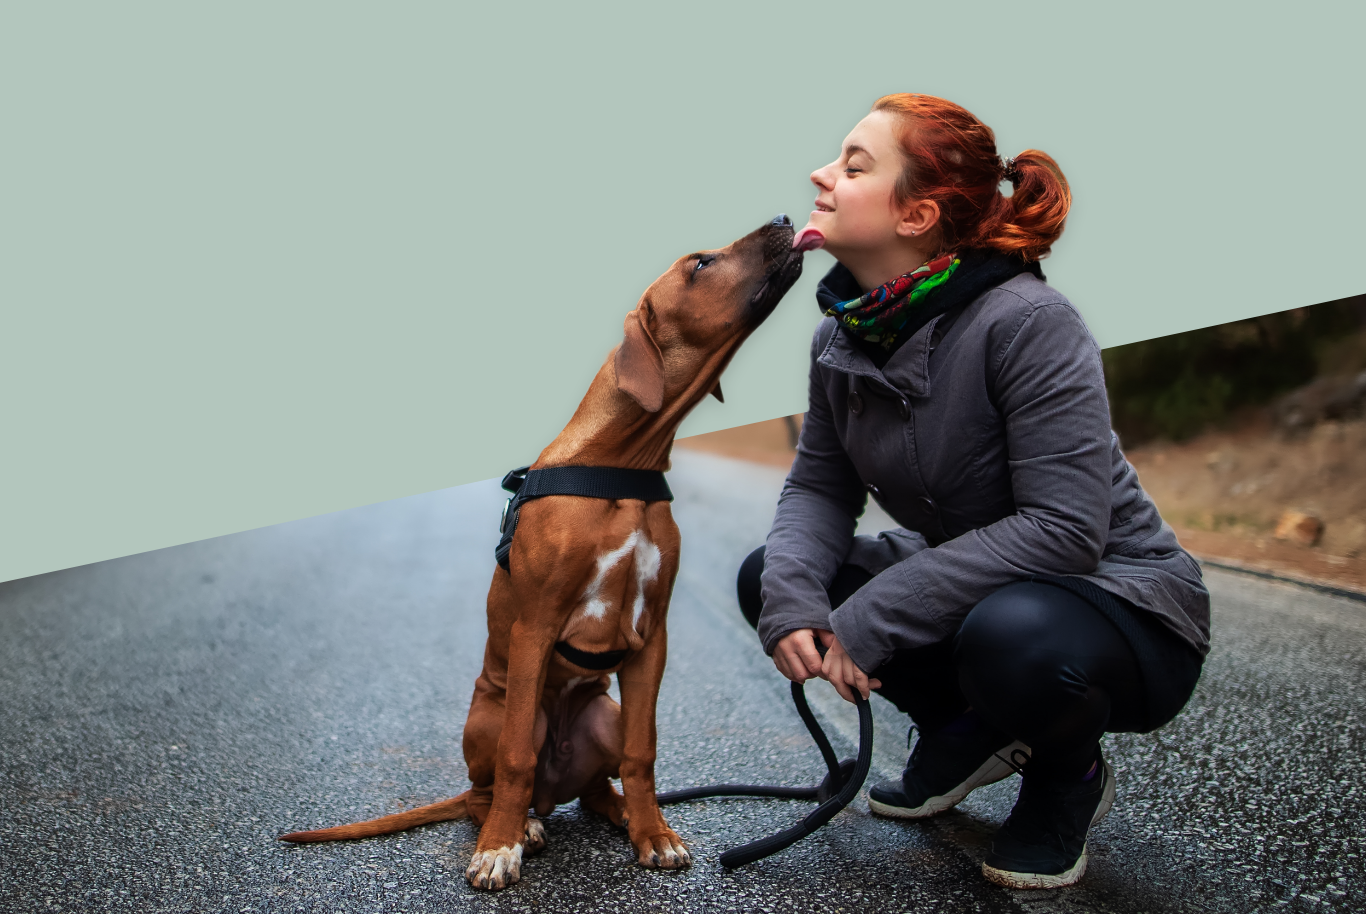
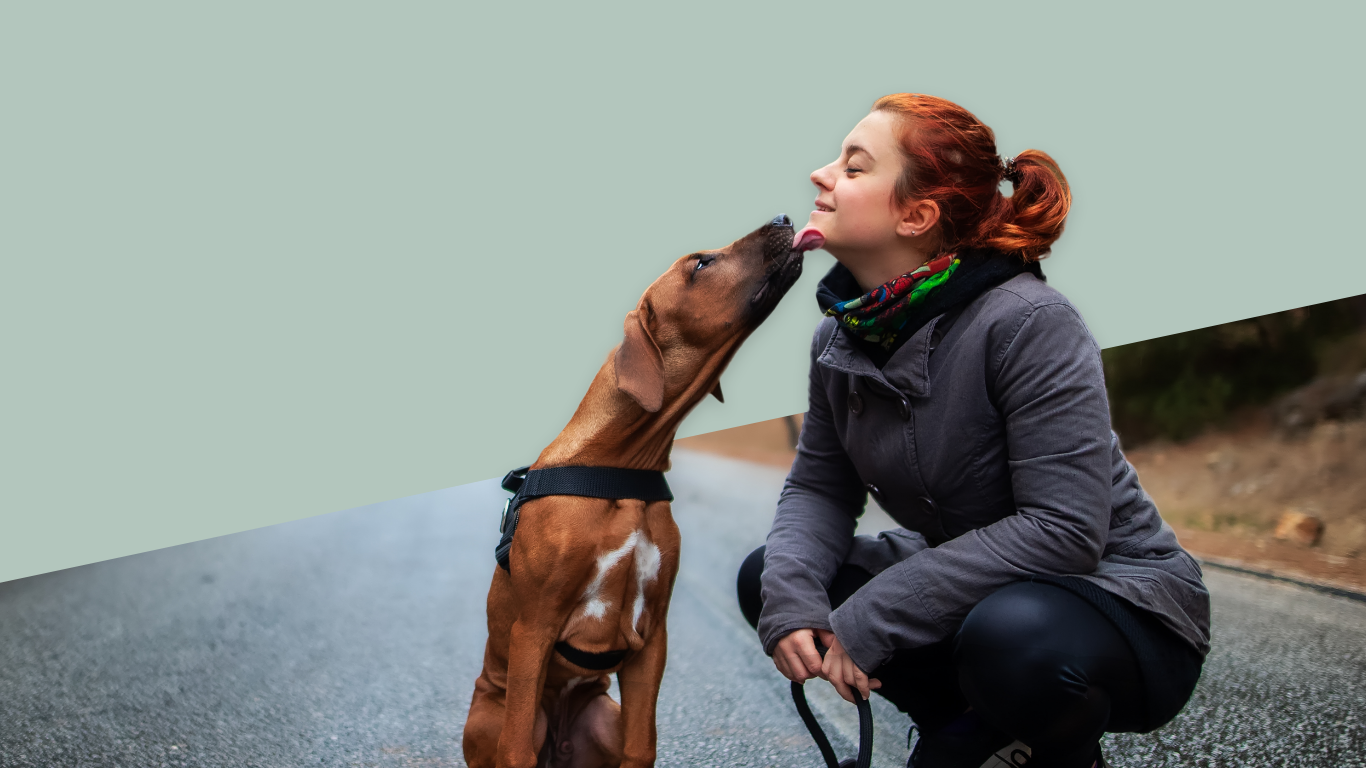
Add content to header and main body

diff --git a/css/styles.css b/css/styles.css
@@ -1,63 +1,170 @@
-html,
-body {
-margin: 0;
-padding: 0;
-font-family: Arial, Helvetica, sans-serif;
-}
+html, body {
+  margin: 0;
+  padding: 0;
+  font-family: Arial, Helvetica, sans-serif;
+  }
+
+/* -----------NAVIGATION AND HEADER----------- */
+
 header {
-width: 100%;
-height: 70px;
-display: flex;
-align-items: center;
-justify-content: space-around;
-background: #EFEFEF;
-color: #505050;
-}
-.logo {
-letter-spacing: 2px;
-}
-.nav {
-display: flex;
-justify-content: space-around;
-width: 30%;
-}
-.navlink {
-list-style: none;
-margin: 0;
-}
-.navlink a {
-color: #909592;
-text-decoration: none;
-font-size: 1.2em;
-}
-.burger {
-font-size: 1.2em;
-display: none;
+  width: 100%;
+  height: 70px;
+  display: flex;
+  align-items: center;
+  justify-content: space-around;
+  background: #EFEFEF;
+  color: #505050;
 }
 
+.logo {
+  letter-spacing: 2px;
+  font-size: 20px;
+}
+
+.nav {
+  display: flex;
+  justify-content: space-around;
+  width: 30%;
+}
+
+.navlink {
+  list-style: none;
+  margin: 0;
+}
+
+.navlink a {
+  color: #909592;
+  text-decoration: none;
+  font-size: 1.2em;
+}
+.burger {
+  font-size: 1.2em;
+  display: none;
+}
+
+
+/* ----------- MAIN----------- */
+.main-container img {
+  width: 100%;
+  height: auto;
+}
+
+.adopt-container {
+  position: absolute;
+  top: 120px;
+  left: 100px;
+  max-width: 600px;
+  padding-right: 20px;
+  margin-bottom: 0px;
+}
+
+.adopt-container h2 {
+  color: #fff;
+  font-weight: lighter;
+  letter-spacing: 2px;
+}
+
+.adopt-container h3 {
+  color: #fff;
+  font-weight: bold;
+  font-size: 55px;
+  text-shadow: 2px 4px 3px rgba(0,0,0,0.3);
+  margin: 0px 0px 20px 0px;
+}
+
+.adopt-container hr {
+  border-top: 1px solid #fff;
+}
+
+button {
+  background-color: #fff;
+  color: #909592;
+  padding: 10px 20px 10px 20px;
+  border: none;
+  border-radius: 30px;
+  width: 250px;
+  font-size: 20px;
+}
+
+/* ----------- WHAT WE DO----------- */
+.body-container {
+  margin-top: -10px;
+  text-align: center;
+  background-color: #efefef;
+  padding: 20px;
+}
+.body-container h2 {
+  color: #505050;
+  font-size: 40px;
+}
+
+/* -----------MEDIA QUERIES----------- */
 @media screen and (max-width: 678px) {
   .burger {
-  display: block;
+    display: block;
   }
   .nav {
-  margin: 0;
-  background: #343434;
-  position: absolute;
-  right: -100%;
-  top: 70px;
-  width: 50%;
-  height: 50%;
-  min-height: 200px;
-  flex-direction: column;
-  justify-content: space-around;
-  padding: 0;
-  transition: all 400ms;
+    margin: 0;
+    background: #343434;
+    position: absolute;
+    right: -100%;
+    top: 70px;
+    width: 50%;
+    height: 50%;
+    min-height: 200px;
+    flex-direction: column;
+    justify-content: space-around;
+    padding: 0;
+    transition: all 400ms;
   }
   .navlink {
-  text-align: center;
+    text-align: center;
   }
 
   .nav-active {
     right: 0;
   }
+
+
+  .adopt-container {
+    position: relative;
+    top: 0px;
+    left: 0px;
+    max-width: 100%;
+    padding: 20px;
+  }
+
+  .adopt-container h2 {
+    color: #B3C6BD;
+    font-weight: lighter;
+    letter-spacing: 2px;
+    padding-top: 0px;
+    margin-top: 0px;
+  }
+
+  .adopt-container h3 {
+    color: #505050;
+    font-weight: bold;
+    font-size: 35px;
+    text-shadow: none;
+    margin: 0px 0px 20px 0px;
+  }
+
+  .adopt-container hr {
+    margin-top: 0px;
+    border-top: 1px solid #fff;
+  }
+
+  button {
+    background-color: #909592;
+    color: #fff;
+    padding: 10px 20px 10px 20px;
+    border: none;
+    border-radius: 30px;
+    width: 250px;
+    font-size: 20px;
+    margin-bottom: 20px;
+  }
+
+
 }

diff --git a/index.html b/index.html
@@ -15,7 +15,7 @@
 <body>
 
   <header>
-    <h1 class="logo">Jackson Animal Shelter</h1>
+    <h1 class="logo">JACKSON ANIMAL SHELTER</h1>
       <ul class="nav">
         <li class="navlink"><a href="index.html">HOME</a></li>
         <li class="navlink"><a href="adopt.html">ADOPT</a></li>
@@ -25,6 +25,20 @@
         <i class="fas fa-bars"></i>
       </div>
     </header>
+
+    <div class="main-container">
+      <img src="./images/header-img.png">
+      <div class="adopt-container">
+        <h2>JACKSON ANIMAL SHELTER</h2>
+        <hr>
+        <h3>Finding your next best friend starts here.</h3>
+        <button type="button" name="button">ADOPT A PET</button>
+      </div>
+    </div>
+
+    <div class="body-container">
+      <h2>What We Do</h2>
+    </div>
 
   <script src="js/scripts.js"></script>
 </body>
